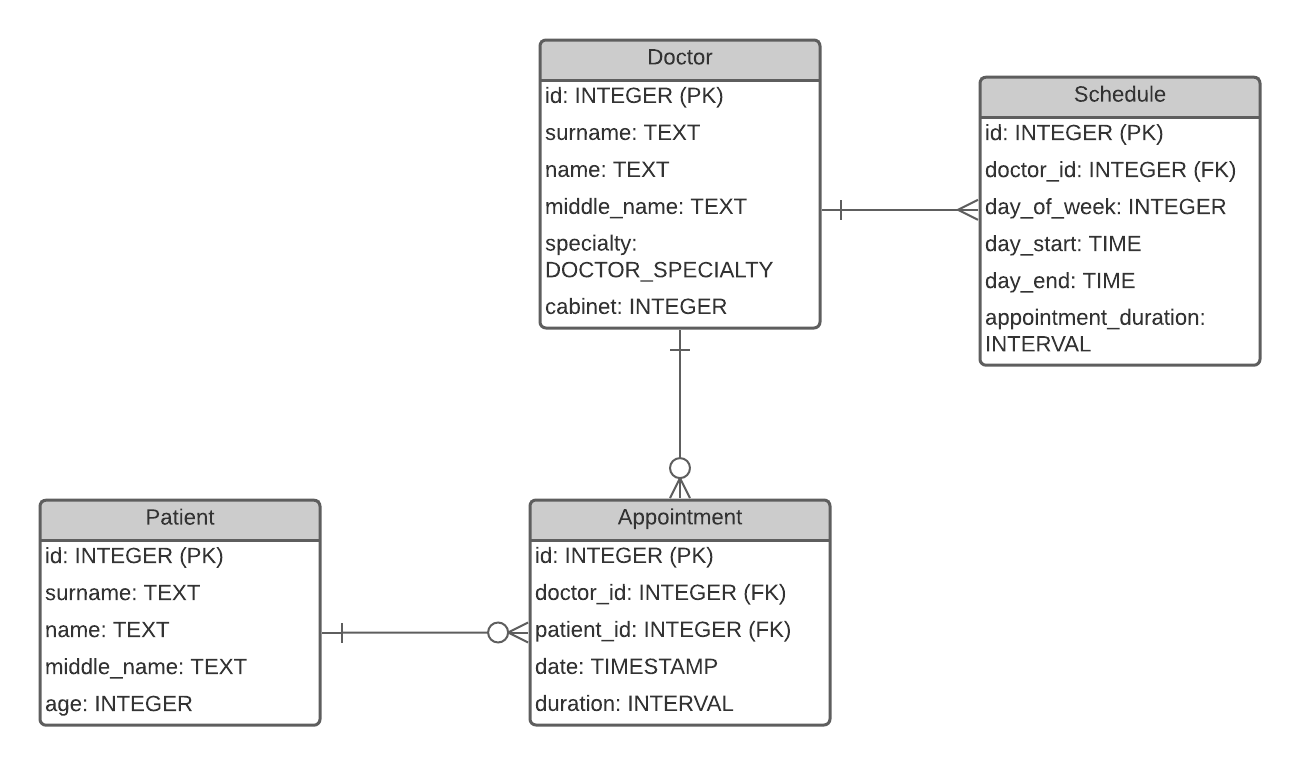
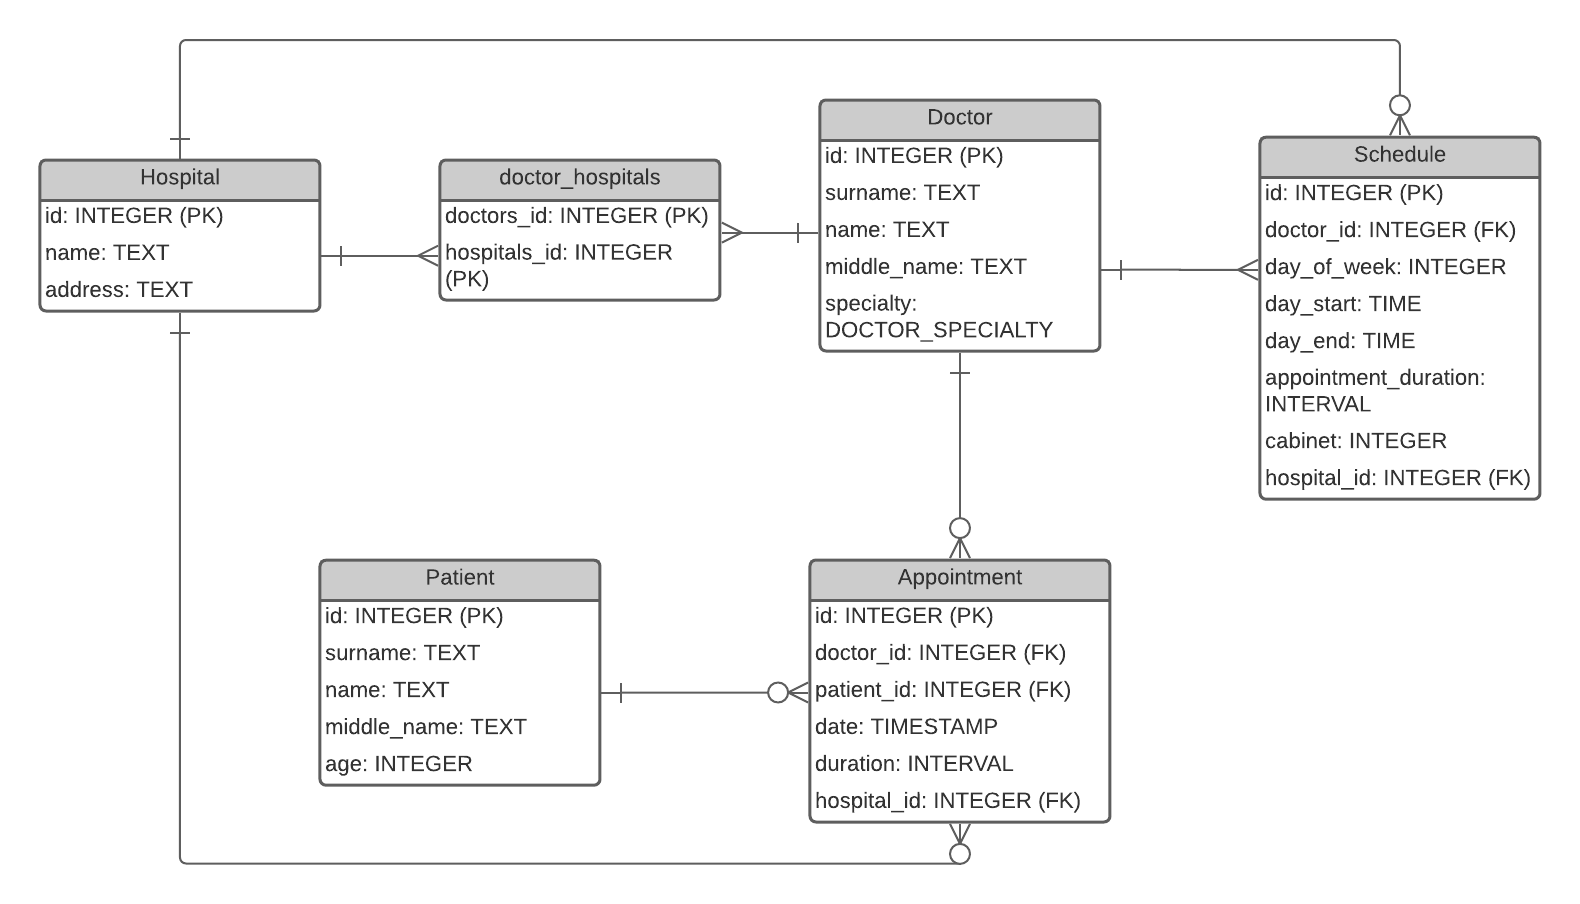
added hospital

Changed region(s): [[0.1846, 0.0301, 0.9846, 0.5712], [0.0308, 0.5712, 0.7077, 0.9621], [0.0, 0.1503, 0.2154, 0.3608]]

diff --git a/src/test/java/ru/jakev/hospitalproject/services/TestAppointmentService.java b/src/test/java/ru/jakev/hospitalproject/services/TestAppointmentService.java
@@ -44,17 +44,17 @@ public class TestAppointmentService {
         appointmentService = new AppointmentServiceImpl(appointmentRepository, scheduleService, appointmentMapper);
         appointmentList = new ArrayList<>();
         Doctor doctor1 = new Doctor(1, "surname", "name", "middle_name",
-                DoctorSpeciality.DENTIST, 10);
+                DoctorSpeciality.DENTIST, null);
         Doctor doctor2 = new Doctor(2, "surname", "name", "middle_name",
-                DoctorSpeciality.DENTIST, 11);
+                DoctorSpeciality.DENTIST, null);
         Patient patient1 = new Patient(1, "surname", "name", "middle_name", 20);
         Patient patient2 = new Patient(2, "surname", "name", "middle_name", 20);
         appointmentList.add(new Appointment(1, doctor1, patient1, LocalDateTime.of(2021, 5,
-                17, 9, 0), Duration.ofHours(1)));
+                17, 9, 0), Duration.ofHours(1), null));
         appointmentList.add(new Appointment(1, doctor1, patient2, LocalDateTime.of(2021, 5,
-                17, 15, 0), Duration.ofHours(1)));
+                17, 15, 0), Duration.ofHours(1), null));
         appointmentList.add(new Appointment(1, doctor2, patient2, LocalDateTime.of(2021, 5,
-                17, 10, 0), Duration.ofHours(1)));
+                17, 10, 0), Duration.ofHours(1), null));
     }
 
     @Test
@@ -146,15 +146,15 @@ public class TestAppointmentService {
     @Test
     void testSaveAppointment() {
         DoctorDTO doctorDTO = new DoctorDTO(1, "surname", "name", "middle_name",
-                DoctorSpeciality.DENTIST, 10);
+                DoctorSpeciality.DENTIST, null);
         PatientDTO patientDTO = new PatientDTO(1, "surname", "name", "middle_name", 20);
         AppointmentDTO appointmentDTO = new AppointmentDTO(1, doctorDTO, patientDTO,
-                LocalDateTime.of(2021, 5, 24, 9, 0));
+                LocalDateTime.of(2021, 5, 24, 9, 0), null);
         Mockito.when(appointmentRepository.save(Mockito.any(Appointment.class)))
                 .then(AdditionalAnswers.returnsFirstArg());
         Mockito.when(scheduleService.getScheduleByDoctorIdAndDayOfWeek(Mockito.anyInt(), Mockito.any(DayOfWeek.class))).thenReturn(
                 new ScheduleDTO(1, 1, DayOfWeek.MONDAY,
-                        LocalTime.of(9, 0), LocalTime.of(18, 0), Duration.ofHours(2)));
+                        LocalTime.of(9, 0), LocalTime.of(18, 0), Duration.ofHours(2), null));
         AppointmentDTO newAppointmentDTO = appointmentService.saveAppointment(appointmentDTO);
         appointmentDTO.setDuration(Duration.ofHours(2));
         assertEquals(appointmentDTO, newAppointmentDTO);
@@ -165,7 +165,7 @@ public class TestAppointmentService {
         mockGetAppointmentsByDoctorIdAndDateBetween();
         Mockito.when(scheduleService.getScheduleByDoctorIdAndDayOfWeek(Mockito.anyInt(), Mockito.any(DayOfWeek.class)))
                 .thenReturn(new ScheduleDTO(1, 1, DayOfWeek.MONDAY,
-                        LocalTime.of(9, 0), LocalTime.of(18, 0), Duration.ofHours(2)));
+                        LocalTime.of(9, 0), LocalTime.of(18, 0), Duration.ofHours(2), null));
         Map<LocalTime, Boolean> schedule = appointmentService.getScheduleByDoctorIdAndDate(1,
                 LocalDate.of(2021, 5, 17));
 
@@ -176,7 +176,7 @@ public class TestAppointmentService {
         }
         Mockito.when(scheduleService.getScheduleByDoctorIdAndDayOfWeek(Mockito.anyInt(), Mockito.any(DayOfWeek.class)))
                 .thenReturn(new ScheduleDTO(1, 1, DayOfWeek.MONDAY,
-                        LocalTime.of(12, 0), LocalTime.of(18, 0), Duration.ofHours(1)));
+                        LocalTime.of(12, 0), LocalTime.of(18, 0), Duration.ofHours(1),null));
         schedule = appointmentService.getScheduleByDoctorIdAndDate(1,
                 LocalDate.of(2021, 5, 17));
 

diff --git a/src/test/java/ru/jakev/hospitalproject/services/TestDoctorService.java b/src/test/java/ru/jakev/hospitalproject/services/TestDoctorService.java
@@ -1,6 +1,5 @@
 package ru.jakev.hospitalproject.services;
 
-import static org.junit.jupiter.api.Assertions.*;
 import org.junit.jupiter.api.BeforeEach;
 import org.junit.jupiter.api.Test;
 import org.junit.jupiter.api.extension.ExtendWith;
@@ -19,6 +18,9 @@ import ru.jakev.hospitalproject.services.impl.DoctorServiceImpl;
 import java.util.ArrayList;
 import java.util.List;
 
+import static org.junit.jupiter.api.Assertions.assertEquals;
+import static org.junit.jupiter.api.Assertions.assertTrue;
+
 @ExtendWith(MockitoExtension.class)
 public class TestDoctorService {
 
@@ -34,9 +36,9 @@ public class TestDoctorService {
     @Test
     void testGetAllDoctors(){
         List<Doctor> list = new ArrayList<>();
-        list.add(new Doctor(1, "surname", "name", "middle_name", DoctorSpeciality.DENTIST, 10));
-        list.add(new Doctor(2, "surname", "name", "middle_name", DoctorSpeciality.DENTIST, 10));
-        list.add(new Doctor(3, "surname", "name", "middle_name", DoctorSpeciality.DENTIST, 10));
+        list.add(new Doctor(1, "surname", "name", "middle_name", DoctorSpeciality.DENTIST, null));
+        list.add(new Doctor(2, "surname", "name", "middle_name", DoctorSpeciality.DENTIST, null));
+        list.add(new Doctor(3, "surname", "name", "middle_name", DoctorSpeciality.DENTIST, null));
 
         Mockito.when(doctorRepository.findAll()).thenReturn(list);
 
@@ -54,7 +56,7 @@ public class TestDoctorService {
 
     @Test
     void testSave(){
-        DoctorDTO doctor = new DoctorDTO(1, "surname", "name", "middle_name", DoctorSpeciality.DENTIST, 10);
+        DoctorDTO doctor = new DoctorDTO(1, "surname", "name", "middle_name", DoctorSpeciality.DENTIST,null);
         Mockito.when(doctorRepository.save(Mockito.any(Doctor.class))).then(AdditionalAnswers.returnsFirstArg());
 
         DoctorDTO newDoctor = doctorService.saveDoctor(doctor);

diff --git a/src/test/java/ru/jakev/hospitalproject/services/TestScheduleService.java b/src/test/java/ru/jakev/hospitalproject/services/TestScheduleService.java
@@ -48,15 +48,15 @@ public class TestScheduleService {
         peopleMapper = Mappers.getMapper(PeopleMapper.class);
         scheduleService = new ScheduleServiceImpl(scheduleRepository, doctorService, scheduleMapper, peopleMapper);
         Doctor doctor = new Doctor(1, "surname", "name", "middle_name",
-                DoctorSpeciality.DENTIST, 10);
+                DoctorSpeciality.DENTIST, null);
         Doctor doctor2 = new Doctor(2, "surname", "name", "middle_name",
-                DoctorSpeciality.DENTIST, 10);
+                DoctorSpeciality.DENTIST, null);
         scheduleList.add(new Schedule(1, doctor, DayOfWeek.MONDAY, LocalTime.of(9, 0),
-                LocalTime.of(18, 0), Duration.ofHours(1)));
+                LocalTime.of(18, 0), Duration.ofHours(1),null));
         scheduleList.add(new Schedule(2, doctor, DayOfWeek.TUESDAY, LocalTime.of(9, 0),
-                LocalTime.of(18, 0), Duration.ofHours(1)));
+                LocalTime.of(18, 0), Duration.ofHours(1),null));
         scheduleList.add(new Schedule(3, doctor2, DayOfWeek.MONDAY, LocalTime.of(9, 0),
-                LocalTime.of(18, 0), Duration.ofHours(1)));
+                LocalTime.of(18, 0), Duration.ofHours(1),null));
     }
 
     @Test

diff --git a/src/main/java/ru/jakev/hospitalproject/dto/DoctorDTO.java b/src/main/java/ru/jakev/hospitalproject/dto/DoctorDTO.java
@@ -1,10 +1,11 @@
 package ru.jakev.hospitalproject.dto;
 
-import com.fasterxml.jackson.annotation.JsonValue;
 import lombok.AllArgsConstructor;
 import lombok.Data;
 import lombok.NoArgsConstructor;
 import ru.jakev.hospitalproject.entities.DoctorSpeciality;
+
+import java.util.Set;
 
 @Data
 @NoArgsConstructor
@@ -16,7 +17,7 @@ public class DoctorDTO {
     private String name;
     private String middleName;
     private DoctorSpeciality speciality;
-    private Integer cabinet;
+    private Set<HospitalDTO> hospitals;
 
     @Override
     public String toString() {
@@ -26,7 +27,7 @@ public class DoctorDTO {
                 ", name='" + name + '\'' +
                 ", middleName='" + middleName + '\'' +
                 ", speciality=" + speciality.getName() +
-                ", cabinet=" + cabinet +
+                ", hospitals=" + hospitals +
                 '}';
     }
 }

diff --git a/src/main/java/ru/jakev/hospitalproject/entities/Doctor.java b/src/main/java/ru/jakev/hospitalproject/entities/Doctor.java
@@ -6,6 +6,7 @@ import lombok.NoArgsConstructor;
 
 import javax.persistence.*;
 import javax.validation.constraints.NotNull;
+import java.util.Set;
 
 @Entity
 @Data
@@ -31,7 +32,9 @@ public class Doctor {
     @Enumerated(EnumType.STRING)
     private DoctorSpeciality speciality;
 
-    private Integer cabinet;
+    @ManyToMany(cascade = CascadeType.ALL, fetch = FetchType.EAGER)
+    private Set<Hospital> hospitals;
+
 
     @Override
     public String toString() {
@@ -41,7 +44,6 @@ public class Doctor {
                 ", name='" + name + '\'' +
                 ", middleName='" + middleName + '\'' +
                 ", speciality=" + speciality.getName() +
-                ", cabinet=" + cabinet +
                 '}';
     }
 }

diff --git a/src/main/java/ru/jakev/hospitalproject/entities/Hospital.java b/src/main/java/ru/jakev/hospitalproject/entities/Hospital.java
@@ -1,0 +1,30 @@
+package ru.jakev.hospitalproject.entities;
+
+import lombok.AllArgsConstructor;
+import lombok.Data;
+import lombok.NoArgsConstructor;
+
+import javax.persistence.Entity;
+import javax.persistence.FetchType;
+import javax.persistence.Id;
+import javax.persistence.ManyToMany;
+import javax.validation.constraints.NotNull;
+import java.util.Set;
+
+@Entity
+@Data
+@NoArgsConstructor
+@AllArgsConstructor
+public class Hospital {
+
+    @Id
+    private Integer id;
+
+    @NotNull
+    private String name;
+    @NotNull
+    private String address;
+
+    @ManyToMany(mappedBy = "hospitals", fetch = FetchType.LAZY)
+    private Set<Doctor> doctors;
+}

diff --git a/src/main/java/ru/jakev/hospitalproject/mappers/ScheduleMapper.java b/src/main/java/ru/jakev/hospitalproject/mappers/ScheduleMapper.java
@@ -5,10 +5,11 @@ import org.mapstruct.Mapping;
 import ru.jakev.hospitalproject.dto.ScheduleDTO;
 import ru.jakev.hospitalproject.entities.Schedule;
 
-@Mapper(componentModel = "spring")
+@Mapper(componentModel = "spring", uses = {HospitalMapper.class})
 public interface ScheduleMapper {
 
     @Mapping(source = "schedule.doctor.id", target = "doctorId")
+    @Mapping(source = "schedule.hospital.id", target = "hospitalId")
     ScheduleDTO scheduleToScheduleDto(Schedule schedule);
 
     Schedule scheduleDtoToSchedule(ScheduleDTO scheduleDTO);

diff --git a/src/main/java/ru/jakev/hospitalproject/dto/AppointmentDTO.java b/src/main/java/ru/jakev/hospitalproject/dto/AppointmentDTO.java
@@ -19,8 +19,9 @@ public class AppointmentDTO {
     @JsonFormat(pattern = "dd_MM_yyyy HH:mm:ss")
     private LocalDateTime date;
     private Duration duration;
+    private HospitalDTO hospitalDTO;
 
-    public AppointmentDTO(Integer id, DoctorDTO doctor, PatientDTO patient, LocalDateTime date) {
+    public AppointmentDTO(Integer id, DoctorDTO doctor, PatientDTO patient, LocalDateTime date, HospitalDTO hospitalDTO) {
         this.id = id;
         this.doctor = doctor;
         this.patient = patient;

diff --git a/src/main/java/ru/jakev/hospitalproject/mappers/HospitalMapper.java b/src/main/java/ru/jakev/hospitalproject/mappers/HospitalMapper.java
@@ -1,0 +1,13 @@
+package ru.jakev.hospitalproject.mappers;
+
+import org.mapstruct.Mapper;
+import ru.jakev.hospitalproject.dto.HospitalDTO;
+import ru.jakev.hospitalproject.entities.Hospital;
+
+@Mapper(componentModel = "spring")
+public interface HospitalMapper {
+
+    HospitalDTO hospitalToHospitalDTO(Hospital hospital);
+
+    Hospital hospitalDTOToHospital(HospitalDTO hospitalDTO);
+}

diff --git a/src/main/java/ru/jakev/hospitalproject/mappers/AppointmentMapper.java b/src/main/java/ru/jakev/hospitalproject/mappers/AppointmentMapper.java
@@ -4,7 +4,7 @@ import org.mapstruct.Mapper;
 import ru.jakev.hospitalproject.dto.AppointmentDTO;
 import ru.jakev.hospitalproject.entities.Appointment;
 
-@Mapper(componentModel = "spring")
+@Mapper(componentModel = "spring", uses = {HospitalMapper.class})
 public interface AppointmentMapper {
 
     AppointmentDTO appointmentToAppointmentDto(Appointment appointment);

diff --git a/src/main/java/ru/jakev/hospitalproject/mappers/PeopleMapper.java b/src/main/java/ru/jakev/hospitalproject/mappers/PeopleMapper.java
@@ -6,7 +6,7 @@ import ru.jakev.hospitalproject.dto.PatientDTO;
 import ru.jakev.hospitalproject.entities.Doctor;
 import ru.jakev.hospitalproject.entities.Patient;
 
-@Mapper(componentModel = "spring")
+@Mapper(componentModel = "spring", uses = {HospitalMapper.class})
 public interface PeopleMapper {
 
     PatientDTO patientToPatientDto(Patient patient);

diff --git a/src/main/java/ru/jakev/hospitalproject/dto/HospitalDTO.java b/src/main/java/ru/jakev/hospitalproject/dto/HospitalDTO.java
@@ -1,0 +1,16 @@
+package ru.jakev.hospitalproject.dto;
+
+import lombok.AllArgsConstructor;
+import lombok.Data;
+import lombok.NoArgsConstructor;
+
+@Data
+@AllArgsConstructor
+@NoArgsConstructor
+public class HospitalDTO {
+    private Integer Id;
+    private String name;
+    private String address;
+
+
+}
